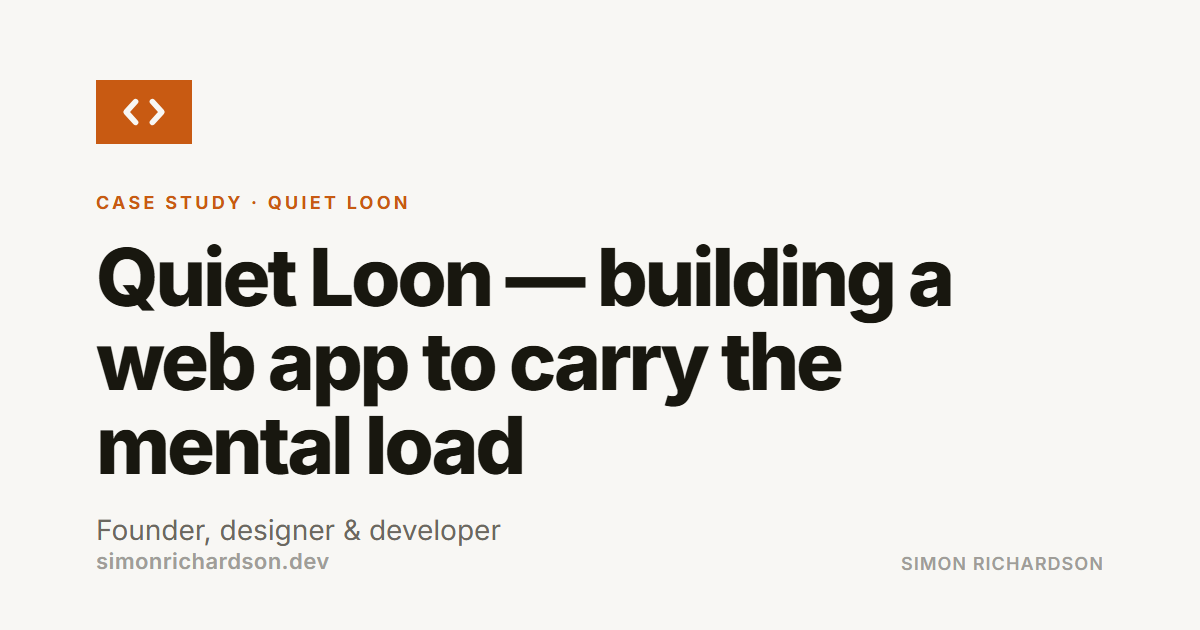
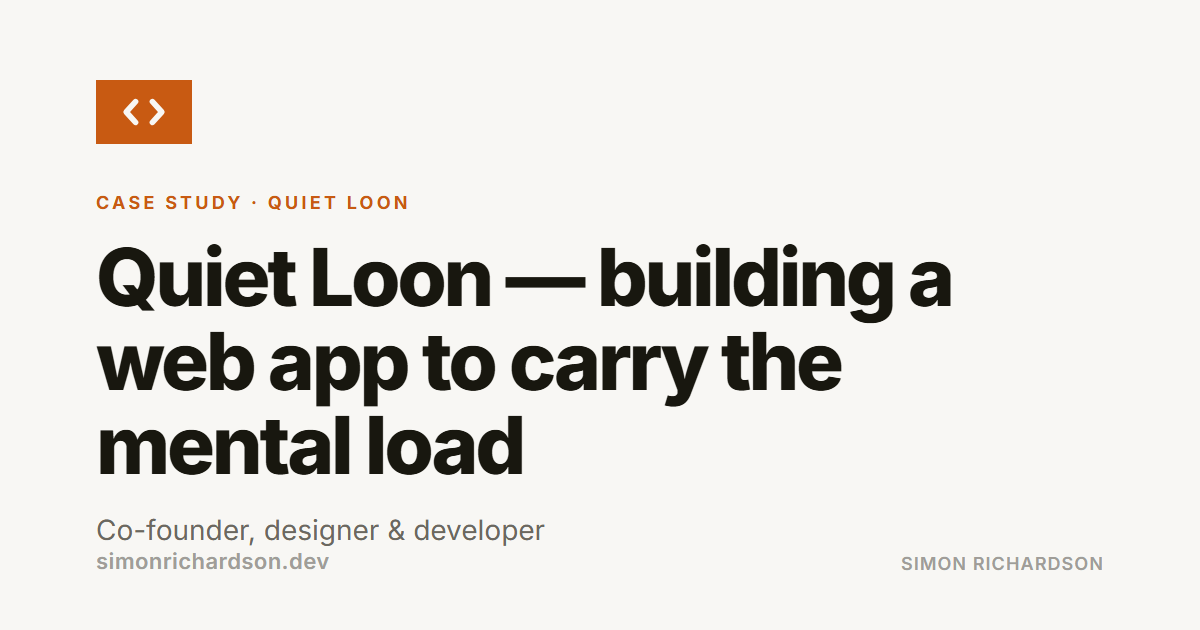
Update Quiet Loon case study: co-founder role + plural voice
Role frontmatter is now "Co-founder, designer & developer" (OG
image regenerated to match). Body switches to "we" for product-
level decisions ("what we built", "the brief we set ourselves",
"we avoided", "we spent too long on the marketing site"); keeps
"I" for personal motivation and reflections.

Changed region(s): [[0.0617, 0.8143, 0.4625, 0.8746]]

diff --git a/src/content/case-studies/quiet-loon.md b/src/content/case-studies/quiet-loon.md
@@ -1,7 +1,7 @@
 ---
 title: 'Quiet Loon — building a web app to carry the mental load'
 project: 'Quiet Loon'
-role: 'Founder, designer & developer'
+role: 'Co-founder, designer & developer'
 summary: 'A web app for couples and households to share the running list of small things — the bin nights, the appointments, the half-finished thoughts — without one person having to remember it all.'
 tags: ['Next.js', 'TypeScript', 'Postgres', 'Supabase', 'Stripe', 'Claude API', 'Vercel']
 liveUrl: 'https://quietloon.com'
@@ -20,9 +20,9 @@ There are plenty of tools for this. None of them quite work. Generic todo apps t
 
 I wanted a tool that made the load visible without turning life admin into another app to maintain.
 
-## What I built
+## What we built
 
-A small, deliberate web app — not a feature-bloated planner. The brief I set myself:
+A small, deliberate web app — not a feature-bloated planner. The brief we set ourselves:
 
 - **Capture in seconds.** If logging something takes longer than just doing it, no one sticks with it. The capture surface is one input.
 - **Shared by default.** Two people, one list. No invite flows, no role hierarchies, no permission settings.
@@ -51,7 +51,7 @@ This sounds wrong; everyone says you need notifications. But the pitch is "you d
 
 ### LLM where it pays, not LLM-everywhere
 
-Claude is doing two specific jobs: parsing free-text input into structured items, and writing the weekly digest. Both are bounded, both cacheable, both have clear value. I avoided putting a chat surface anywhere — it's a list app, not a chatbot, and the cost economics of "AI that responds to anything" don't work at consumer subscription pricing.
+Claude is doing two specific jobs: parsing free-text input into structured items, and writing the weekly digest. Both are bounded, both cacheable, both have clear value. We avoided putting a chat surface anywhere — it's a list app, not a chatbot, and the cost economics of "AI that responds to anything" don't work at consumer subscription pricing.
 
 ## Outcome
 
@@ -61,7 +61,7 @@ Next, in priority order: a calmer mobile experience (PWA install + offline captu
 
 ## What I'd do differently
 
-I spent too long on the marketing site before launch. The landing page went through three rewrites trying to explain "mental load" to people who recognise it instantly if they have the problem, and won't be convinced by clever copy if they don't. Better to ship a thinner page sooner and let the audience self-identify.
+We spent too long on the marketing site before launch. The landing page went through three rewrites trying to explain "mental load" to people who recognise it instantly if they have the problem, and won't be convinced by clever copy if they don't. Better to ship a thinner page sooner and let the audience self-identify.
 
 ---
 
